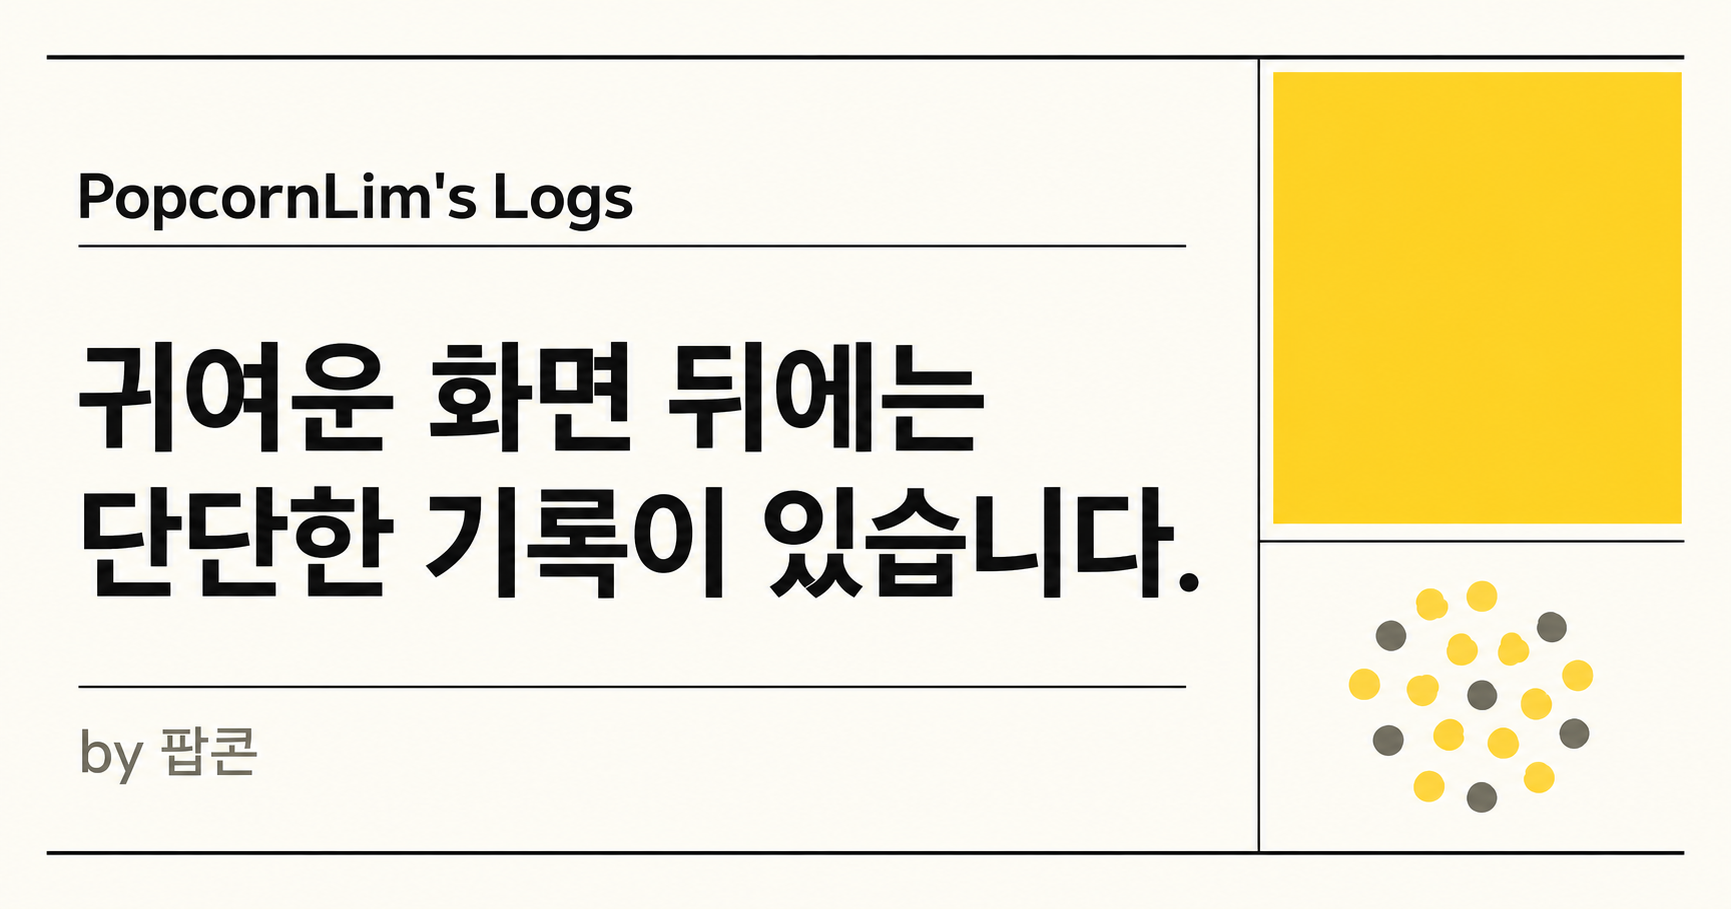
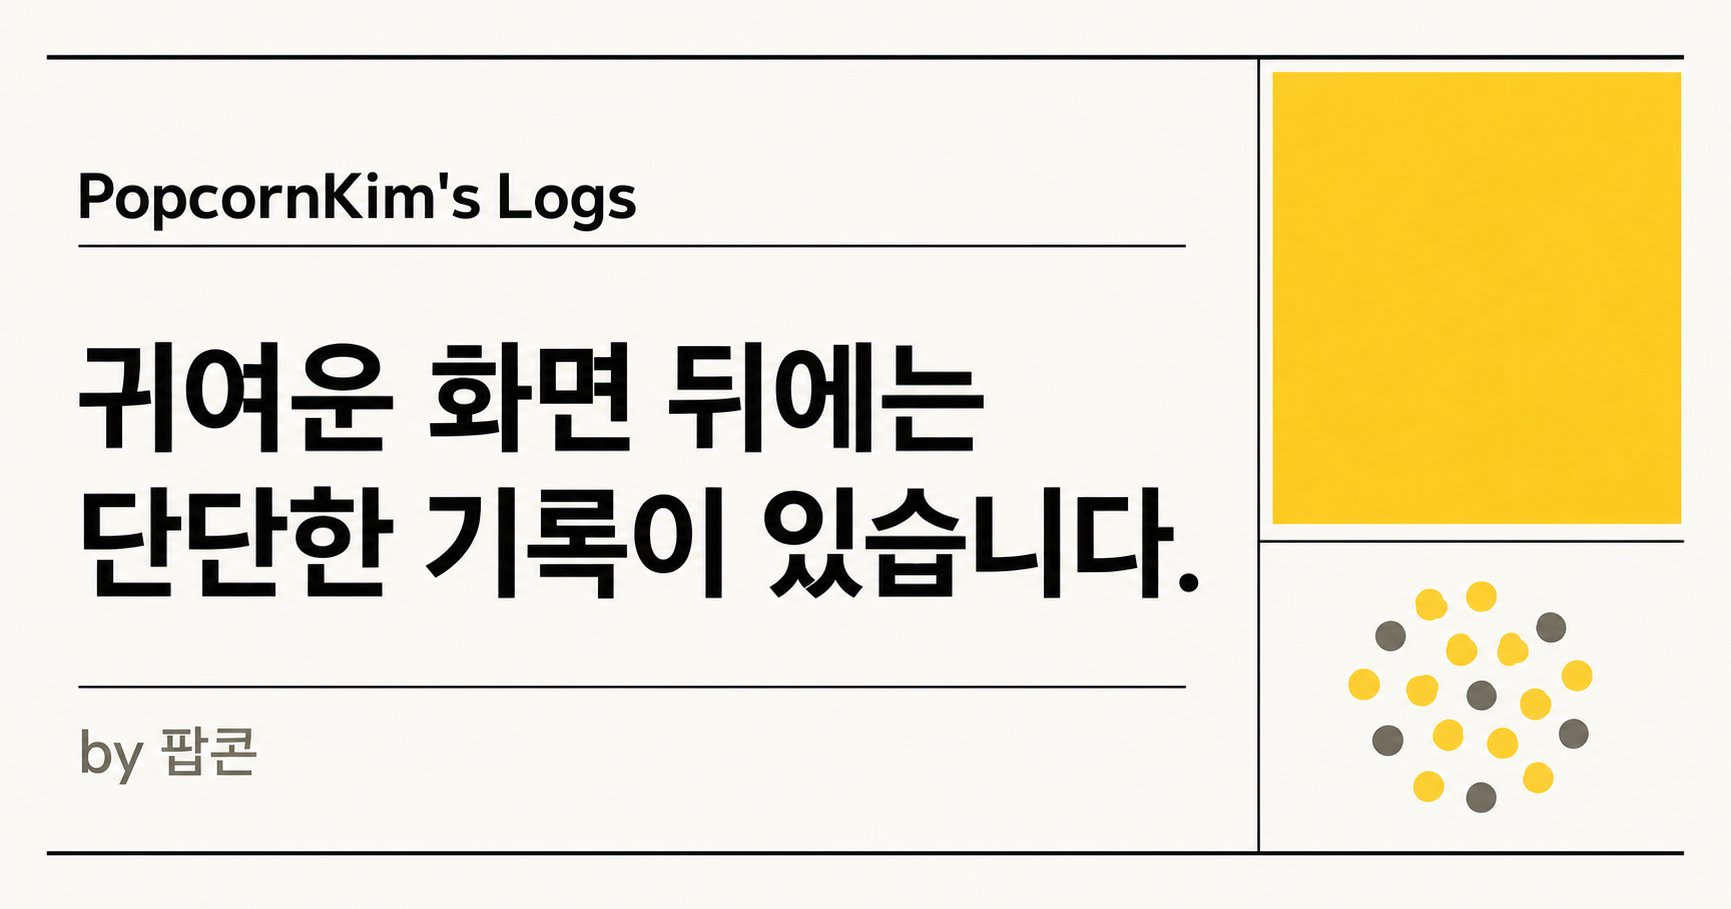
Correct site name to PopcornKim

diff --git a/app/layout.tsx b/app/layout.tsx
@@ -14,8 +14,8 @@ const geistMono = Geist_Mono({
 
 export const metadata: Metadata = {
   title: {
-    default: "PopcornLim's Logs",
-    template: "%s · PopcornLim's Logs",
+    default: "PopcornKim's Logs",
+    template: "%s · PopcornKim's Logs",
   },
   description:
     "디자이너 팝콘의 코딩 공부, 일상, 포트폴리오 그리고 반려햄스터 푸딩이의 기록.",
@@ -29,14 +29,14 @@ export const metadata: Metadata = {
   openGraph: {
     type: "website",
     locale: "ko_KR",
-    siteName: "PopcornLim's Logs",
-    title: "PopcornLim's Logs",
+    siteName: "PopcornKim's Logs",
+    title: "PopcornKim's Logs",
     description: "귀여운 화면 뒤에는 단단한 기록이 있습니다.",
-    images: [{ url: "/og.png", width: 1200, height: 630, alt: "PopcornLim's Logs" }],
+    images: [{ url: "/og.png", width: 1200, height: 630, alt: "PopcornKim's Logs" }],
   },
   twitter: {
     card: "summary_large_image",
-    title: "PopcornLim's Logs",
+    title: "PopcornKim's Logs",
     description: "귀여운 화면 뒤에는 단단한 기록이 있습니다.",
     images: ["/og.png"],
   },

diff --git a/app/page.tsx b/app/page.tsx
@@ -36,9 +36,9 @@ export default function Home() {
   return (
     <main>
       <header className="site-header page-shell">
-        <a className="brand" href="#top" aria-label="PopcornLim's Logs 홈">
+        <a className="brand" href="#top" aria-label="PopcornKim's Logs 홈">
           <span className="brand-dot" aria-hidden="true" />
-          PopcornLim&apos;s Logs
+          PopcornKim&apos;s Logs
         </a>
         <nav className="main-nav" aria-label="주요 메뉴">
           <a href="#coding">Coding Logs</a>
@@ -145,7 +145,7 @@ export default function Home() {
 
       <footer className="site-footer page-shell">
         <div>
-          <strong>PopcornLim&apos;s Logs</strong>
+          <strong>PopcornKim&apos;s Logs</strong>
           <p>Designed, coded and continuously learned by 팝콘.</p>
         </div>
         <div className="footer-links">

diff --git a/README.md b/README.md
@@ -1,4 +1,4 @@
-# PopcornLim's Logs
+# PopcornKim's Logs
 
 디자이너 팝콘의 코딩 공부, 일상, 포트폴리오 그리고 반려햄스터
 푸딩이의 기록을 담는 개인 블로그입니다.
